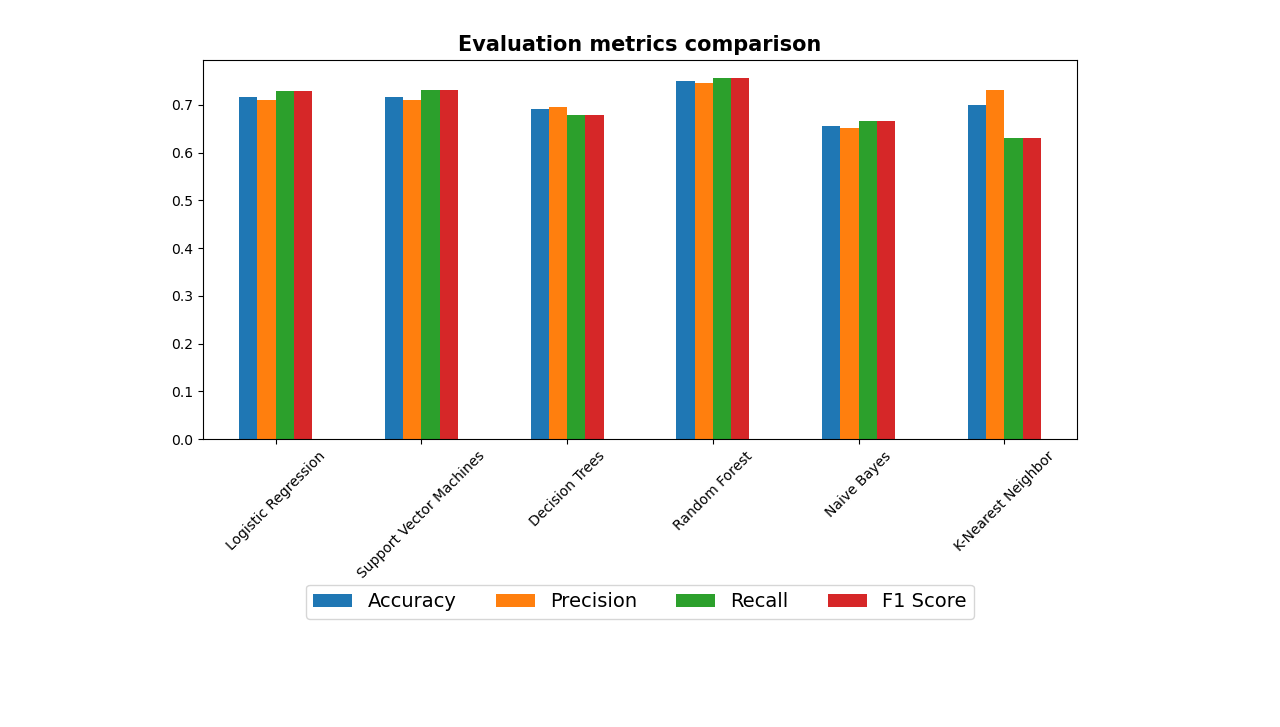
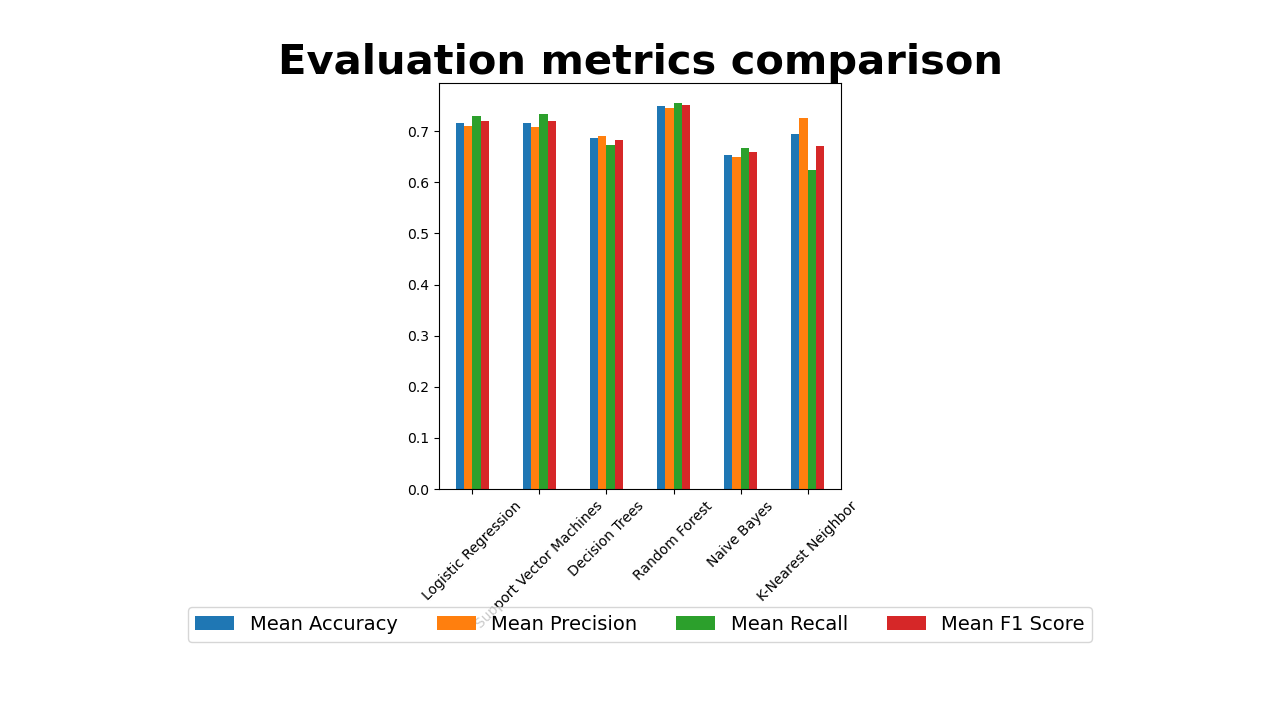
Comparison cv fatto

diff --git a/modeling_comparison_cv.py b/modeling_comparison_cv.py
@@ -14,7 +14,7 @@ import pandas as pd
 
 
 # A) load dataset & define variables
-tweets_df = pd.read_csv('intro2ml_2021_final_project\\Data\\2k_sample_processed.csv', encoding='utf-8')
+tweets_df = pd.read_csv(r'C:\Users\loren\Documents\GitHub\intro2ml_2021_final_project\Data\full_sample_processed.csv', encoding='utf-8')
 tweets_df['weekday'] = tweets_df['weekday'].astype('category')
 tweets_df['hour'] = tweets_df['hour'].astype('category')
 tweets_df['quote_url'] = tweets_df['quote_url'].astype('category')
